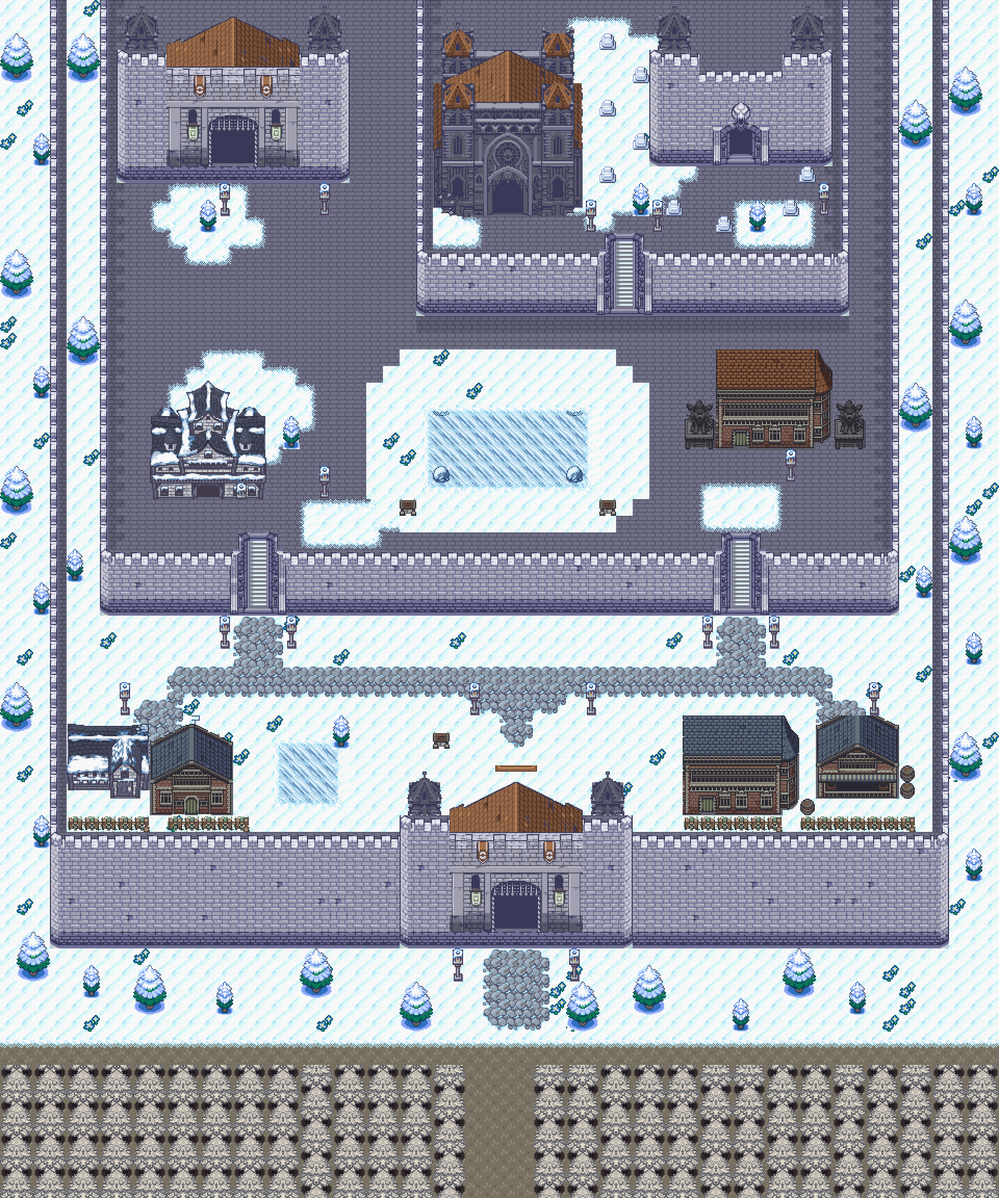
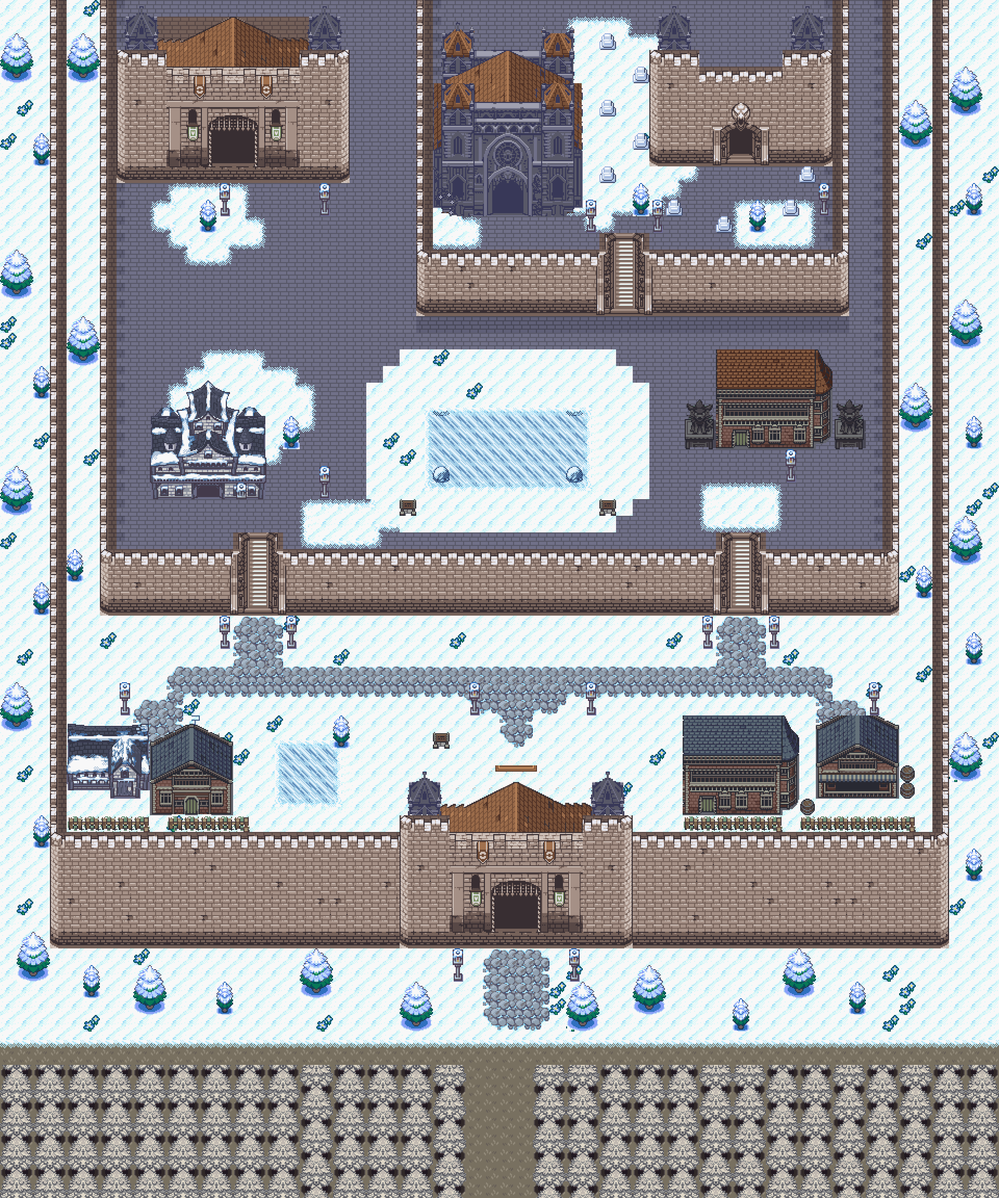
Mirroh: one copper-shaded stone for all the fortress walls and gates
The user: both gates in a copper-shaded stone to go with the roof, and all the walls the same, for consistency; the roof did not meet the towers at its sides. All walls, towers, parapets, stairs and gates mapped by lightness to a cold grey warmed toward copper (snow on the crenels and the paving kept); the gatehouse roof now runs in behind the towers.

Claude-Session: https://claude.ai/code/session_01FHXnfqnedTHLf5QFbB3MCU

Changed region(s): [[0.0312, 0.0, 0.9688, 0.8125]]

diff --git a/tools/art/mirroh/mirroh_v3.py b/tools/art/mirroh/mirroh_v3.py
@@ -111,6 +111,36 @@ def copper_roof(w, h, seed='roof'):
             img[y, x] = c
     return img
 
+# ------------------------------------------------------------------ the fortress stone: copper-shaded (user 2026-11-21)
+# Every wall, tower, parapet, stair and gate of Mirroh in one stone, a cold stone warmed toward copper, to go with
+# the copper roofs (the user: the same colour everywhere, for consistency). Mapped by lightness from Elderflower's
+# stone (and Crown's restoned); snow on the crenels kept; the paving keeps its dark slate.
+CSTONE = np.array([(30, 26, 32), (56, 46, 50), (86, 70, 68), (118, 98, 90), (148, 126, 116), (176, 156, 146),
+                   (206, 192, 184), (234, 226, 222)], float)
+_EF_STONE_IDS = (0x272, 0x20e, 0x21e, 0x222, 0x22a, 0x307, 0x2a3, 0x22b, 0x216, 0x291, 0x206, 0x2b4, 0x223, 0x233,
+                 0x21a, 0x21b, 0x25e, 0x224, 0x22c, 0x232, 0x234, 0x2a5, 0x2ae, 0x2a7, 0x2ab, 0x2b6, 0x2ac, 0x2b5,
+                 0x2b7, 0x2bd, 0x2be, 0x2bf, 0x258, 0x25c, 0x260, 0x264, 0x249, 0x24a, 0x24b, 0x250, 0x251, 0x252,
+                 0x253, 0x254, 0x259, 0x25a, 0x25b, 0x261, 0x262, 0x263)
+def _key(a): a = a.astype(np.int64); return (a[..., 0] << 16) | (a[..., 1] << 8) | a[..., 2]
+_STONE_KEYS = np.unique(np.concatenate([_key(ef(m)).ravel() for m in _EF_STONE_IDS] + [_key(_RAMP)]))
+def cstone(img):
+    """Mirroh's copper-shaded stone: every pixel of the stone's own colours, by lightness, onto CSTONE."""
+    f = img.astype(float); l = _lum(f)
+    stone = np.isin(_key(img), _STONE_KEYS)
+    snow = (l > 214) & (f[..., 2] >= f[..., 0])
+    sel = stone & ~snow
+    t = np.clip((l - 30) / 200.0, 0, 1) * (len(CSTONE) - 1)
+    i = np.floor(t).astype(int); i1 = np.minimum(i + 1, len(CSTONE) - 1); w = (t - i)[..., None]
+    out = img.copy(); col = (CSTONE[i] * (1 - w) + CSTONE[i1] * w).astype(np.uint8)
+    out[sel] = col[sel]
+    return out
+
+def stone_pass(M):
+    for y in range(H):
+        for x in range(W):
+            if M.gtag[y, x] in ('wall', 'gate', 'stairs', 'gate-in') and M.g[y][x] is not None:
+                M.g[y][x] = cstone(M.g[y][x])
+
 # ------------------------------------------------------------------ the plan: levels
 L = np.zeros((H, W), int)                         # 0 outside; 1 lower town; 2 the square; 3 the sacred terrace
 def level(l, x0, y0, x1, y1): L[y0:y1 + 1, x0:x1 + 1] = l
@@ -280,12 +310,12 @@ def gatehouse(M, x0, ycren, style='roof', far_mat=False, tone=None):
         xr = x0 + 11
         body = [[0x2a3, 0x272, 0x272]] + [[0x222, 0x20e, 0x20e]] * 2 + [[0x222, 0x22b, 0x20e]] + \
                [[0x222, 0x20e, 0x20e]] * 2 + [[0x22a, 0x20e, 0x20e], [0x307, 0x21e, 0x21e]]
-        roof, ra = cathedral_roof(8 * 16, 3 * 16)
+        roof, ra = cathedral_roof(10 * 16, 3 * 16)     # (a column wider each side: it runs in behind the towers)
         for dy in range(3):
-            for dx in range(8):
+            for dx in range(10):
                 sl = (slice(dy * 16, dy * 16 + 16), slice(dx * 16, dx * 16 + 16))
-                t = M.g[ycren - 3 + dy][x0 + 3 + dx].copy(); t[ra[sl]] = roof[sl][ra[sl]]
-                M.ground(x0 + 3 + dx, ycren - 3 + dy, t, 'gate')
+                t = M.g[ycren - 3 + dy][x0 + 2 + dx].copy(); t[ra[sl]] = roof[sl][ra[sl]]
+                M.ground(x0 + 2 + dx, ycren - 3 + dy, t, 'gate')
         for side, xs in ((0, x0), (1, xr)):
             for dy, r in enumerate(body):
                 for dx, m in enumerate(r):
@@ -464,6 +494,7 @@ def compose():
     for x, y in ((1, 12), (58, 1), (1, 37), (58, 29), (11, 61), (27, 60), (35, 61), (50, 61), (16, 60)):
         if M.free(x, y, 1, 1): rock(M, x, y)
     # --- lamps: at every stair's foot, the gates, the Tavern's and Langerin's doors, along the street
+    stone_pass(M)
     for x, y in ((13, 37), (17, 37), (42, 37), (46, 37), (35, 12), (39, 12), (28, 41), (35, 41), (27, 57), (34, 57),
                  (13, 11), (19, 11), (49, 11), (19, 28), (47, 27), (7, 41), (52, 41)):
         if M.free(x, y, 1, 2, ground=('snow', 'pave', 'cobble')): mm.lamp(M, x, y)

diff --git a/bible/20_chapter1_build.md b/bible/20_chapter1_build.md
@@ -181,7 +181,7 @@ Chapter 1 is the template: once its foundations (mechanics, maps, buildings, NPC
 - **The ice path and the church after the blast (user design 2026-11-19), built (stage 1 + the stage-3 puzzle, user: the two combined for this piece).** **The church after Eden's blast** is a second layout of the same hall map (`LAYOUT_PELLUCA_TEMPLAR_HALL_RUINED`), swapped in by the hall's on-transition script once **`FLAG_DR_CHURCH_BLASTED`** is set (the blast scene, stage 4): the split through the gold medallion with frost round it, the old fault's cracks in wall and carpet, the cracked stained glass (three in the great window, one across the girl's face; two in each lancet) and the cell doorway caved in under MonoMyth's Mt. Thunder rubble (`blast_mock.py`, approved); no long crack from the rubble to the split (tried, dropped, user: unnatural and not needed). Everything else plays as the intact hall: its collision, its exit, and its side tables' tops over the player, read from the intact layout. The four split cells drop the player (Mt. Pyre's fall-through-the-hole) onto the ice path's landing; the cell door is dead and the fallen stone in front of it solid. **The ice path** (`PellucaIcePath`, 16x24, `icepath_mock.py`, approved): the landing, the 12x9 thin-ice field (86 ice cells, 22 ice boulders, a unique route from the landing to the gate), the ice wall and its gate, and the shrine: the half-thawed Arceus statue between the fossilised log benches, fire rings and blue flowers, and the three stone tusk arches like a ribcage before it. **The puzzle** runs on vanilla's Sootopolis-gym step callback (`STEP_CB_SOOTOPOLIS_ICE`, `VAR_ICE_STEP_COUNT`), which `src/field_tasks.c` now points at this map's own cracked/broken metatiles on this layout (`METATILE_PellucaIcePath_*`, written by the build into `metatile_labels.h`; the Sootopolis row-var bookkeeping kept to the gym). All 86 cracked (count 87): the gate's ice gives way (`SE_ICE_STAIRS`), the field refreezes solid (special `DrIcePathFreeze`: safe ice, no behaviour) and **`FLAG_DR_ICE_PATH_SOLVED`** is set; a second step on a cracked cell: the ice breaks, the player drops through, black screen, back on the landing with a fresh field. Every full load of the map rebuilds a fresh field and count when unsolved (special `DrIcePathReset`; a continued save would otherwise restore cracked cells in view), and the solved state (gate open, refrozen field) when solved. **Ways out:** the ladder in the shrine's corner, and (added in the build, so the player is never stuck before solving) **the Templars' rope** hanging beside the landing; both bring the player up just south of the split (hall warp 2). The ribs stand free: only each leg's foot is solid, the rest of each rib is drawn over the player, so he walks under and between them. Map type underground. Flags: `FLAG_DR_CHURCH_BLASTED` = 0x901, `FLAG_DR_ICE_PATH_SOLVED` = 0x902. Built by `tools/art/icepath/build_icepath.py` and `tools/art/templar/build_ruined.py` (with `imgtiles.py`; `tools/art/academy/tilefit.py` merges the statue's rarest near-shades so each 8x8 tile fits one palette, no visible change); `CHURCH_TEST_BLASTED=1` builds a test ROM that sets the flag on entering the hall. **Verified in the emulator** (test build): city -> ruined hall -> the cell door blocked -> into the split -> the landing; a second step on a cracked cell -> reset to the landing; the rope up and back down; the solution walked -> gate open, field refrozen -> the shrine -> the ladder up -> back down the split: still solved, the field crossed back and forth without falling. Normal build: the intact hall unchanged (city -> hall -> cell -> hall -> city; the split cells inert). *Stage 3-4, still to do:* the blast scene that sets the flag, the Templar's remark on the cold, the Sparkling Opal and the discovery, the Archbishop's scene, the leave-the-Valley block, dialogue for the fall (the field's black-out is silent for now).
 - **The shrine's awakening and the Sparkling Opal (user design 2026-11-20), built.** With the field solved, **pressing A on the Arceus statue** awakens the holy power of the site: dramatic music starts at the touch (**Rayquaza Appears**, `MUS_RAYQUAZA_APPEARS`; user: something awe-inspiring), a rumble, **the ice melts off the statue** (five frames, a little meltwater left at its foot), **the seal breaks in a holy flash** (fade to white and back) with **Arceus's cry echoing** (the cry's chorus mode under a heavy mixer reverb: specials `DrPlayEchoCry` / `DrEndEchoCry`), **the two fire rings beside the logs light** one after the other in **holy sapphire-and-white flame** (user's pick over warm firelight; animated, four frames on dedicated tiles: `InitTilesetAnim_PellucaIcePath`), and the music ends. Then Osrid (portrait, his private nameplate): "Something fell down out of the ice... Could this be...!!", and **"Osrid found the Sparkling Opal!"** with the key-item fanfare and its description popup. The statue stays thawed and the fires lit (`FLAG_DR_STATUE_AWAKENED` = 0x909, restored on every load). **Sparkling Opal** (`ITEM_SPARKLING_OPAL`, key item): its bag icon drawn in `awaken_mock.py` (a milky opal with a rainbow patchwork of play of colour, user); bag text (three lines fit): "Fell from the ice of / an Arceus statue. It / shimmers as if alive." (the user's description, "A gleaming opal that fell from the ice around an ancient Arceus statue. Its colours shift as if alive.", is too long for the bag window; it can be the text when the item is first shown or examined). **What happens to it (user 2026-11-20, canon):** when the player goes back up and shows it to **Archbishop Ambrose**, he gives them the **Warding Ring** with massive enthusiasm (a key item that, worn, keeps wild Pokémon away: a Repel switched on and off at will): Sparkling Opals appear only where Arceus has set foot in the material realm, the Templars have sought one for centuries, and this is the first physical proof of Arceus found in centuries as far as he knows. The player also gets the bravery reward (Never-Melt Ice / Metal Coat / Soft Sand). Stage 4: the scene; the Ring's mechanic to be built with it. **Ice path music (user):** the cave plays **MonoMyth's Old Headquarters theme** (Old Town's Old HQ, where the gang leader with the Bug Pokémon is fought): MonoMyth song 677 ported note for note by `tools/monomyth/port_song.py` (tracks, the voices it uses, its two samples; credit MonoMyth) as `MUS_DR_OLD_HQ` (song 631). **Church crack** (user): the long fresh crack from the cell rubble to the split is gone. Built by `build_icepath.py` with `awaken_mock.py` (melt frames, flames, icon); the statue's cells across all the melt frames share 26 colours (`tilefit.reduce_joint`) so the room still fits 13 palettes. **Verified in the emulator** (test build): the cave plays the Old HQ theme; A on the statue plays the whole sequence (music switches to Rayquaza Appears and back, the melt, the flash, both fires, the line, the item into Key Items); leaving and coming back: statue thawed, fires lit and flickering (four distinct frames).
 - **Route 11 and Hollow Hill: layouts approved (user 2026-11-20).** **Route 11** (45x30, west from Pelluca's west road): Pelluca's pines and cobble road carry on at the east end (the seam to Pelluca uses Pelluca's own Cormoria tiles), farmland in the middle (a thatched farmhouse with a fenced yard, cabbage rows, a sown field, hay; fenced flower rows and tall grass south of the road), tan cliffs stepping down along the north, a cliff-flanked little cove on the south coast, and at the west end the road becomes a dirt track into cooler dark woods running on into Hollow Hill (the Eiscue scene on that track). Art: Crown's seaside farm village (3.1) and dark woods (3.25), Odyssey's farm (0.232); Pisces' Brumist Cliffs / Zotpyre Village (snowy in the ROM) and Odyssey's terraced hill as layout ideas. **Hollow Hill** (about 50x50; **its theme (approved by the user 2026-11-20, "perfect"):** Ghost Grey's Route 1 theme re-arranged as `MUS_DR_HOLLOW_HILL` by `tools/music/arrange_hollow_hill.py`: slowed from 124 to 64 bpm, on the soft pedal piano, no percussion, with a ghostly far-off voice echoing the tune (a sine tone first, heard as beeps: replaced) (wind was tried and taken out: it came across as static) in the bars where the song falls quiet; credit Ghost Grey): woods rising in three rings, each a cliff step up, to a central rock knoll; the path in from Route 11 climbs the rings by stairs to **the sealed tunnel door** at the knoll's foot; the north exit to Mirroh leaves from the outer ring (Glaive there); the Eiscue and the 1v2 on the outer ring; **very foggy, with a generally spooky, unsettling feeling** (user 2026-11-20). **The summit is late-game** (unlocked only with Valkeerin/Keerin in the party; the trip to the distant future and the Red fight happen there; 19_location_atlas.md). **Hollow Hill will be revisited and added to over the whole game** (many secrets, met in pieces): its layout and its tileset keep room for more (hidden burrow mouths placed now as scenery that can later open, the summit area behind the sealed door, spare palette and tile room in its tileset). **Revision (user 2026-11-20, after the first mock):** Route 11 is **about twice as long (about 90x30)**; the **Ivy River's thin western branch** (as on the illustrated region map, coming down from the north past the Necropolis just west of Pelluca) **crosses Route 11 near its Pelluca end and runs down to the beach and the sea; the road crosses it on a bridge**; the **grass shifts gradually** from Pelluca's light mint to the darker temperate greens of Hollow Hill's woods (shades reaching into each other in patches, as MonoMyth's and Crown's route boundaries do; tree kinds mixing before they change). Design rule: no tree or object ever cut, stacked into another or bleeding into buildings, cliffs or water (docs/chapter1_workflow.md). **Mock v2 (2026-11-20):** the river drops through a chasm in three falls (the middle one under the bridge), over the coastal cliff into a rock pool, and a stream bends west over the sand to the sea; the beach is a cove between cliff walls, split by the stream. **Steps down to the west beach (user 2026-11-20)** are cut into the coastal cliff just west of the bridge (stone stairs, two wide: Pelluca's own stair tiles, as in its sea wall): the beach holds **at least one trainer**, and more may go there later. The east beach (between the stream and Pelluca's pines) has no way down yet: **revisit later (user 2026-11-20).** **Built (2026-11-20):** `MAP_ROUTE11` (layout 90x40: five rows of woods, the chasm and the sea added above and below the approved picture, out of the player's reach, so the camera never shows past the edge), connected to Pelluca's west road (Route 11's road rows 19-21 = Pelluca's 28-30). Its own secondary tileset (`gTileset_Route11`, 7 palettes: grass, broadleaf woods, farm, cottage and hay, bridge, cliffs, river and pines on sage) under Pelluca's primary; Pelluca's own metatiles wherever a cell is one. Crowns of trees are walked behind; tall grass is tall grass (no encounter table yet: stage 5); the river in the chasm is solid, the stream and the sea need Surf. **Story gate (provisional):** stepping onto Pelluca's west edge is stopped with Osrid's line ("Cadmus told me to meet him at the church..." after the blast, a general line before it) until the shrine is awakened; stage 4 sets the real condition. **Music (user 2026-11-20):** MonoMyth's Route 15 theme (`MUS_DR_MM_ROUTE15`): a classic Pokémon route theme, reworked, a bright contrast before spooky Hollow Hill. Credit: MonoMyth (its music). **Pelluca Valley's main theme (user 2026-11-20):** Pokémon Crown's route theme (its song 292, `MUS_DR_CROWN_PELLUCA`), replacing Lilycove's, **in the piano version the user chose** (`MUS_DR_CROWN_PELLUCA_PIANO`: our pedal piano for its guitar, harp, clarinet and flute, standalone; the original as ported was removed, user: the remix is better). Credit: Pokémon Crown (its music). **Cold-open music (user 2026-11-20):** MonoMyth's "A Legend Unfolds" (`MUS_DR_LEGEND_UNFOLDS`; in MonoMyth it plays when Fabrizia's museum in North Edelweiss tells the legend of Athanto's Pokémon) plays from Tenebris's notes through Cadmus's letter until Osrid docks in Pelluca, replacing "Far Horizons". Credit: MonoMyth (its music). **Loops checked in the game (2026-11-20):** Pelluca's theme, Route 11's, the cold open's and Hollow Hill's each play through their loop point and come back in step with their loop start (every track loops at the same point). **Sound engine (2026-11-20):** 12 sampled voices instead of 5, as MonoMyth uses (the songs from MonoMyth and Crown play up to 10-12 notes at once; with 5 they cut each other off). **Hollow Hill mock v3 (user 2026-11-20: "quite good"):** `tools/art/hollowhill/hh_mock.py`, renders in `assets/hollowhill_reference/`. Art: Pokémon Odyssey's haunted forest (its maps 0.94/0.95/0.97: teal floor, dark pines, dead trees, stumps, logs, red mushrooms, dark tall grass, burrow hollows, grey stone terraces and stairs, the sealed blue door); credit Odyssey. Layout 66x64 (the hill about 40x37; the extra width is the east edge, where Route 11's olive ground and Crown woods darken and mix into the teal and the pines over about ten columns; Route 11's row = Hollow Hill's row - 24, its track on rows 43-45). Ring edges drawn by Odyssey's own terrace grammar, two bands per ring, three for the knoll. **The way through (user 2026-11-20):** the woods floor is closed into sections by trees running up to the cliffs (north-west corner, north, east, south), and ring 2 reaches out west and east to ring 1's edge, cutting ring 1 into a north and a south half, so **the player can never go round the hill: from Route 11 up ring 1, up ring 2 (the sealed door, or over), down the north side to the north woods and the exit to Mirroh.** Eight stairs, four per ring (south faces, and north edges with the steps drawn down-facing) link the sections: the clearing (Eiscue, the 1v2) is its own section with its own stairs; the north-east woods are a dead-end pocket (room for an item or a secret). The mock checks this each run: with ring 2's stairs closed the north is out of reach; with ring 1's closed the woods sections do not join. The void pits with red eyes were dropped (they read as ponds). **Later (user 2026-11-20):** Hollow Hill keeps being worked on through the game, e.g. **a cool ruined structure on the top**, since it truly is an ancient and arguably cursed place. **Colours (user 2026-11-20):** the woods and their floor an **off-white, creepy bone** (Odyssey's pines, floor and tall grass recoloured one for one), the cliffs a **sinister stone, dark and light mixed** (near-black violet shade, charcoal faces, bone-pale lit edges), so Hollow Hill stands out even in the fog; trunks, red mushrooms and the sealed door's cold blue kept. At the east edge Route 11's green woods pale toward bone over three columns of trees (`hh_mock.py` BONE, tint). **Built (2026-11-20):** `MAP_HOLLOW_HILL` (layout 66x64; `tools/art/hollowhill/build_hollowhill.py` from `hh_mock.py`, mock v8), connected to Route 11's west edge (Hollow Hill's row = Route 11's + 24; the track on rows 43-45). **The seam:** Hollow Hill's columns 58-65 are Route 11's own columns 1-8 (the same blocks; its woods' pattern carried up above Route 11's top), and its tileset (`gTileset_HollowHill`, under Pelluca's primary) keeps Route 11's 24 seam metatiles, their 69 tiles and its two palettes (grass, broadleaf woods: slots 6-7) at the same ids, numbers and slots, so each map draws the other's edge right. Its own: 208 metatiles, 437 tiles, 5 palettes (floor, pines and wood, stone and blood, Crown's woods paled, the door and mushrooms). **The tiles are nearly full** (4 of 512 spare): the webs and the blood are built as repeating pieces (a few drip and blot patterns, one garland per spacing of trees) to fit; later additions (the ruins on top, burrows that open) are best as their own maps behind the sealed door and the burrows, or by trimming the webs/the olive-to-bone shades. Cliffs solid, stairs walkable, tree crowns walked behind, webs drawn over the player, the dark tufts are tall grass (no encounter table yet: stage 5). Weather `WEATHER_FOG_HORIZONTAL`, **thinned for Hollow Hill** (src/field_weather_effect.c: 6/16 over 13/16 instead of 12/16 over 8/16, so the bone woods are not washed out; other foggy maps unchanged); music `MUS_DR_HOLLOW_HILL`; `MAPSEC_DR_HOLLOW_HILL`. The way north runs off the top edge (the Mirroh area is next; no connection yet). Walked in the emulator from Route 11 up both rings, to the door, down the north side to the way north, and to the clearing. **The Hollow Hill guardian (user 2026-11-20; a special quest later in the game):** the personification of the haunted energy that has gathered round Hollow Hill for many years, so strong it **reanimated the dead body of an Araquanid as its vessel**: a custom **undead Araquanid**, a blood bubble for its water bubble, a skull-like face, skeletal limbs and body. Still **Water/Bug**, ability **Water Bubble**; about **level 65**; exceptionally strong: starts the fight at **+1 Attack, Defense, Special Defense and Speed**. It holds the **Reaver's Fang**, which the player gets by defeating it. **Reaver's Fang (held item; user 2026-11-20):** (1) the holder heals **25% of the physical or special damage it deals**; (2) when an enemy's physical or special attack damages the holder, the holder **heals 25% of that damage and the same amount is dealt back to the attacker**; (3) recoil the holder inflicts on itself is lifestolen at 25% too (user, first description; no attacker to hit back). **One of the strongest held items in the game**, which is why it **cannot be had until after midgame** (the guardian's quest is post-midgame). The blood webs across Hollow Hill are signs of its power over the woods. **Not catchable** (user 2026-11-20): it is only cursed energy possessing and working the corpse of a dead Pokémon. **Art:** the user will help make the base art for the assistant to modify further, and may let the assistant try the design when the time comes. OPEN: a new form with its own stats or Araquanid with the boosts; the quest. **Unsettling throughout (user 2026-11-20):** the pines' bone shades go to a **sinister grey** in their depths; **blood-like stains** run down the cliffs from their tops and soak into the stone in blots (more round the sealed door); **Blood-red webbing in MonoMyth's Webbed Woods style, hung across the trees** (user 2026-11-20: a web on each tree looked strange; hang them across more of the trees, more naturally; webs on actual groups of trees, never in the open): sheets of web sag from tree to tree along the woods' edges (the north and south treelines, garlands from each crown to the next at about the same height, two or three threads deep, laced by MonoMyth's zig-zags, torn threads trailing), bulge out from tree to tree down the west woods' side and the trees closing the way east, link pines standing near each other or near a woods' edge (the pair on ring 1), MonoMyth's big sagging net across the narrow way north, small round webs only in the dead tree's branches and in the V between the trees closing the way south. Drawn a pixel at a time in the webbing's two colours (MonoMyth's, made old-blood red); the net is MonoMyth's (`web_net.png`, 0x886DD5C). Credit MonoMyth. **The blood webs mean something (user 2026-11-20):** they are signs of the **Hollow Hill guardian's** power over the woods (below).
-- **Mirroh (user 2026-11-20/21; zone plan v2, `tools/art/mirroh/layout_sketch.py`, `assets/mirroh_reference/`).** Where Crown's medieval architecture really starts. **A mix of a Crown village and MonoMyth's Fort Elderflower** (user): a **walled city climbing the slope** of the massif in three terraces (Elderflower's crenellated terrace walls that jog with the slope, stone stairs staggered so the way winds up), Crown's timber and thatch cottages with fenced gardens below. **Light snow in the lower town, deeper uphill. Gothic, gloomy and wintry:** roofs recoloured to dark slate, iron lanterns, Crown's dragon statues darkened to gargoyles, banners in House Langerin's colours, a graveyard. **Ghost Grey's Opal Village** (user: loves its reflecting ice; study its landscape and indoor/outdoor tiles): sheets of **reflecting ice** sunk in brick rims (one in the square, one in the lower town), **dark icy streets with sparkles**, snowbanks held by brick retaining walls; its houses and museum halls for the interiors (greyscale: to be coloured). Zones: outside the **south gate** Hollow Hill's bone woods carry on (the seam), thinning to snowy pines; **lower town** (cottages, gardens, ice sheet); **middle terrace**, the square (the **Tavern**, like Pelluca's, **recoloured to the dark slate look**, user; a market hall, stalls, the ice sheet); **upper terrace** (deep snow): a gothic chapel and its graveyard (the seed of DM's Mirroh Base Camp graveyard), **House Langerin's town house** (user: yes). **Two ways out north (user):** a **north-west path** further north out of town, and a **separate north-east path to the Necropolis** (its own map uphill). **Gatehouses (user 2026-11-21):** Mirroh is guarded: people may not come and go as they please. **Two walk-through gatehouse buildings with guards** (enter one side, pass the guards inside, leave by the other; interior maps): the **south gatehouse** between Hollow Hill and the city proper, and the **north-west gatehouse** on the route toward the mountain, the Templar HQ and beyond. The **north-east path to the Necropolis is open** (no gate; the Necropolis keeps its own entrance). **Plan approved by the user ("basically perfect").** **Gates, decided (user 2026-11-21):** the **south and north-west gatehouses are roofed gatehouse buildings** in the style of Ghost Grey's and Crown's walk-through gates (slate roof behind the crenels, a stone front with banners, a portcullis door between lanterns, round towers either side; Crown's castle gate restoned in Elderflower's stone). The south one's far door, on the city side, is **a short flight of steps up from the gatehouse** (the city is uphill; user: "yes"). Their **hallway maps** follow North Edelweiss's gate hallway (MonoMyth): a dark doorway at the top, a crimson runner, guard desks facing each other, benches and plants, the mat at the foot, in Mirroh's cold stone (`tools/art/mirroh/gate_hall.py`). **The north-east way to the Necropolis is a standalone skull gate** (user's idea: Elderflower's skull keep door, "rebuilt as a standalone gate with a new top"): the skull arch under a crenellated walk between two round towers capped with the gothic spires of Crown's cathedral; no guards; you walk through the dark arch onto the Necropolis map. **Revised (user 2026-11-21):** both gatehouses take **the towered style** (option B: three-wide round towers a row taller than the gate, capped with the Necropolis gate's spires; no steps, the south one's far door a mat on the city side behind it), and **between the towers the real roof of Crown's cathedral** (its metal-sheet roof as it runs back between the cathedral's spired towers, cut out and widened at mid-slope), **in copper**, over Crown's gate core (pillar, lantern, portcullis, lantern, pillar, two banners); 14 wide (user: no roof at all looked strange; a drawn roof did not look like a natural part of the gate). **Copper is Mirroh's main colour and House Langerin's crest's** (user): used as the contrast to the dark slate and the snow wherever it makes sense: the gatehouse roofs, the banners (Crown's purple ones in copper), the chapel's roof (Crown's verdigris roof in copper, a little green left in its seams), House Langerin's town house roof, the hallway runners and mats (copper rather than red: red is generic). **Mock v3 (2026-11-21, `tools/art/mirroh/mirroh_v3.py`):** the city as Elderflower-style terraces drawn from a level map (each terrace narrower than the one below, its own crenellated front wall with round-tower ends, parapets down its sides, its paving shaded under them), snow lying on the paving in drifts, the reflecting ice set in snowy yards (the snow drifting onto the ice, no rim), cobbled lanes in the lower town; every borrowed building cut out of its source cleanly (only the source's true ground removed).
+- **Mirroh (user 2026-11-20/21; zone plan v2, `tools/art/mirroh/layout_sketch.py`, `assets/mirroh_reference/`).** Where Crown's medieval architecture really starts. **A mix of a Crown village and MonoMyth's Fort Elderflower** (user): a **walled city climbing the slope** of the massif in three terraces (Elderflower's crenellated terrace walls that jog with the slope, stone stairs staggered so the way winds up), Crown's timber and thatch cottages with fenced gardens below. **Light snow in the lower town, deeper uphill. Gothic, gloomy and wintry:** roofs recoloured to dark slate, iron lanterns, Crown's dragon statues darkened to gargoyles, banners in House Langerin's colours, a graveyard. **Ghost Grey's Opal Village** (user: loves its reflecting ice; study its landscape and indoor/outdoor tiles): sheets of **reflecting ice** sunk in brick rims (one in the square, one in the lower town), **dark icy streets with sparkles**, snowbanks held by brick retaining walls; its houses and museum halls for the interiors (greyscale: to be coloured). Zones: outside the **south gate** Hollow Hill's bone woods carry on (the seam), thinning to snowy pines; **lower town** (cottages, gardens, ice sheet); **middle terrace**, the square (the **Tavern**, like Pelluca's, **recoloured to the dark slate look**, user; a market hall, stalls, the ice sheet); **upper terrace** (deep snow): a gothic chapel and its graveyard (the seed of DM's Mirroh Base Camp graveyard), **House Langerin's town house** (user: yes). **Two ways out north (user):** a **north-west path** further north out of town, and a **separate north-east path to the Necropolis** (its own map uphill). **Gatehouses (user 2026-11-21):** Mirroh is guarded: people may not come and go as they please. **Two walk-through gatehouse buildings with guards** (enter one side, pass the guards inside, leave by the other; interior maps): the **south gatehouse** between Hollow Hill and the city proper, and the **north-west gatehouse** on the route toward the mountain, the Templar HQ and beyond. The **north-east path to the Necropolis is open** (no gate; the Necropolis keeps its own entrance). **Plan approved by the user ("basically perfect").** **Gates, decided (user 2026-11-21):** the **south and north-west gatehouses are roofed gatehouse buildings** in the style of Ghost Grey's and Crown's walk-through gates (slate roof behind the crenels, a stone front with banners, a portcullis door between lanterns, round towers either side; Crown's castle gate restoned in Elderflower's stone). The south one's far door, on the city side, is **a short flight of steps up from the gatehouse** (the city is uphill; user: "yes"). Their **hallway maps** follow North Edelweiss's gate hallway (MonoMyth): a dark doorway at the top, a crimson runner, guard desks facing each other, benches and plants, the mat at the foot, in Mirroh's cold stone (`tools/art/mirroh/gate_hall.py`). **The north-east way to the Necropolis is a standalone skull gate** (user's idea: Elderflower's skull keep door, "rebuilt as a standalone gate with a new top"): the skull arch under a crenellated walk between two round towers capped with the gothic spires of Crown's cathedral; no guards; you walk through the dark arch onto the Necropolis map. **Revised (user 2026-11-21):** both gatehouses take **the towered style** (option B: three-wide round towers a row taller than the gate, capped with the Necropolis gate's spires; no steps, the south one's far door a mat on the city side behind it), and **between the towers the real roof of Crown's cathedral** (its metal-sheet roof as it runs back between the cathedral's spired towers, cut out and widened at mid-slope), **in copper**, over Crown's gate core (pillar, lantern, portcullis, lantern, pillar, two banners); 14 wide (user: no roof at all looked strange; a drawn roof did not look like a natural part of the gate). **The fortress stone (user 2026-11-21):** every wall, tower, parapet, stair and both gatehouses (and the Necropolis gate) in **one copper-shaded stone**, a cold grey warmed toward copper, to go with the copper roofs (`cstone`, mapped by lightness from Elderflower's stone; the snow on the crenels and the dark slate paving kept); the gatehouse roof runs in behind its towers (no gap at its sides). **Copper is Mirroh's main colour and House Langerin's crest's** (user): used as the contrast to the dark slate and the snow wherever it makes sense: the gatehouse roofs, the banners (Crown's purple ones in copper), the chapel's roof (Crown's verdigris roof in copper, a little green left in its seams), House Langerin's town house roof, the hallway runners and mats (copper rather than red: red is generic). **Mock v3 (2026-11-21, `tools/art/mirroh/mirroh_v3.py`):** the city as Elderflower-style terraces drawn from a level map (each terrace narrower than the one below, its own crenellated front wall with round-tower ends, parapets down its sides, its paving shaded under them), snow lying on the paving in drifts, the reflecting ice set in snowy yards (the snow drifting onto the ice, no rim), cobbled lanes in the lower town; every borrowed building cut out of its source cleanly (only the source's true ground removed).
 - **Chapter 1 asset references (user 2026-11-19), for later: nothing built yet.** **Permissions and credits (user 2026-11-19):** Pokémon Crown (Blah and the Crown team) and Pokémon Ghost Grey Version EX (JoeyZeed) are used with permission; credit them in the notes alongside MonoMyth, Pokémon Odyssey and the Pokémon Rejuvenation team. Sources earmarked while surveying Pokémon Crown (FireRed hack by Blah and the Crown team; `tools/crown/README.md`, renders in `assets/crown_reference/`), MonoMyth, Dreamstone Mysteries and Rejuvenation:
   - **Mirroh Necropolis entrance:** Crown's curved palisade gate (walled capital, map group 3 #3, cells x43-54 y5-13), recoloured sinister (slate stone, charred wood, tarnished bronze arch, spectral banners) with graveyard/gothic ornament, as the grand entrance down into the catacombs (user). Catacomb levels: Crown's underground stone halls (group 6 #8: tiered walls, cobwebs, pillars, plank bridges over a chasm, a sealed chamber) and its sewer (group 7 #11), recoloured. Graves: DM's Mirroh Base Camp Graveyard headstones (metatile 0x3A5 in LAYOUT_MIRROH_BASE_CAMP_GRAVEYARD) and MonoMyth Speedwell's wooden cross markers (metatiles 0x39, 0xA6); dead stumps from MonoMyth's Haunted Swamp; Crown's cobwebs; Rejuvenation's iron candle stands with ghost-coloured flames; Crown's dragon statues darkened into gargoyles. **Underground catacombs (user, primary reference):** Pokémon Ghost Grey Version EX's Lavender Town catacombs (by JoeyZeed; `tools/ghostgrey/README.md`, renders in `assets/ghostgrey_reference/`): six chambers with grave niches, demon-face reliefs and chasm crossings, ending in a pillared chamber with a sealed gate (the Distortion gate's room). They are greyscale and need a proper palette.
   - **Templar Headquarters ("Templar Citadel", Mt. Mirroh):** Crown's gothic cathedral on its moat island with timber chalets (group 3 #2), with an alpine/snow treatment and perhaps an outer wall.
